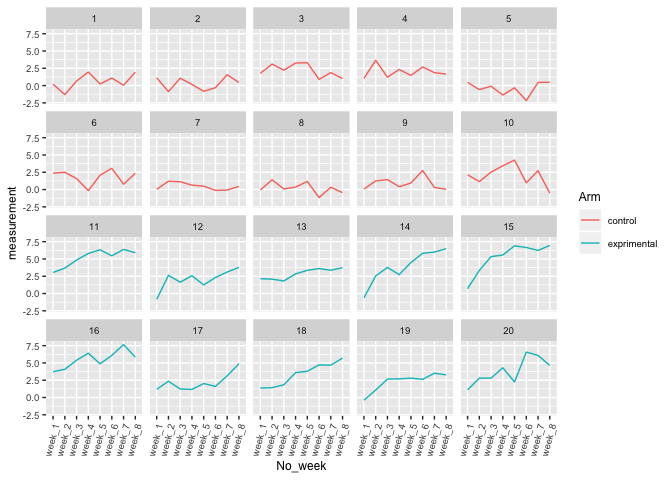
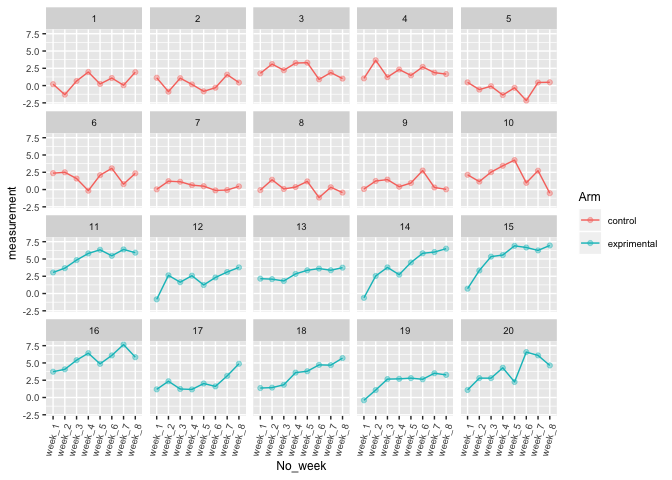
Add the title and legend.

diff --git a/hw5.md b/hw5.md
@@ -7,14 +7,14 @@ Shan Jiang
 library(tidyverse)
 ```
 
-    ## ── Attaching packages ─────────────────────────────────────────── tidyverse 1.2.1 ──
+    ## ── Attaching packages ────────────────────────────────────────── tidyverse 1.2.1 ──
 
     ## ✔ ggplot2 3.0.0     ✔ purrr   0.2.5
     ## ✔ tibble  1.4.2     ✔ dplyr   0.7.6
     ## ✔ tidyr   0.8.1     ✔ stringr 1.3.1
     ## ✔ readr   1.1.1     ✔ forcats 0.3.0
 
-    ## ── Conflicts ────────────────────────────────────────────── tidyverse_conflicts() ──
+    ## ── Conflicts ───────────────────────────────────────────── tidyverse_conflicts() ──
     ## ✖ dplyr::filter() masks stats::filter()
     ## ✖ dplyr::lag()    masks stats::lag()
 
@@ -62,13 +62,6 @@ list.files(file_path)  # Show all names
     ## [11] "exp_01.csv" "exp_02.csv" "exp_03.csv" "exp_04.csv" "exp_05.csv"
     ## [16] "exp_06.csv" "exp_07.csv" "exp_08.csv" "exp_09.csv" "exp_10.csv"
 
-``` r
-list.files(file_path)[11:20]  # Show last 10 names
-```
-
-    ##  [1] "exp_01.csv" "exp_02.csv" "exp_03.csv" "exp_04.csv" "exp_05.csv"
-    ##  [6] "exp_06.csv" "exp_07.csv" "exp_08.csv" "exp_09.csv" "exp_10.csv"
-
 Create a tidy dataframe containing data from all participants, including
 the subject ID, arm, and observations over time.
 
@@ -92,9 +85,7 @@ vec_name = str_c(base, c(p))
 control_df = map_df(vec_name, read_sheet)
 ```
 
-  - Tidy the result: file names include the subject ID and arm.
-
-<!-- end list -->
+#### Tidy the result: file names include the subject ID and arm.
 
 ``` r
 # Calling the ifelse function within mutate to label 2 Arms
@@ -105,7 +96,7 @@ control_df = control_df %>%
   gather(key = No_week, value = measurement, week_1:week_8)
 ```
 
-### Spaghetti plot
+## Spaghetti plot
 
 ``` r
 graph_1 = control_df %>% 
@@ -114,6 +105,7 @@ graph_1 = control_df %>%
 
 graph_2 = control_df %>% 
 ggplot(aes(x = No_week, y = measurement, group = ID)) +
+  geom_point(aes(color = Arm), size = 1.5, alpha = 0.4) +
   geom_line(aes(color = Arm)) + 
   facet_wrap(~ID) +
  theme(text = element_text(size = 9),
